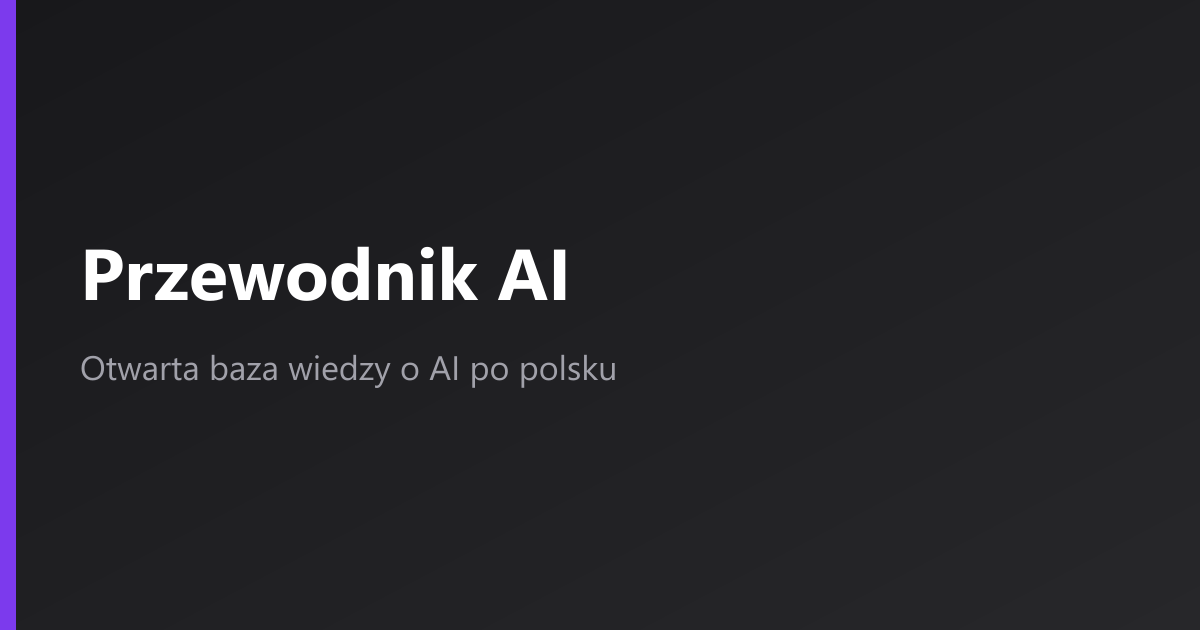
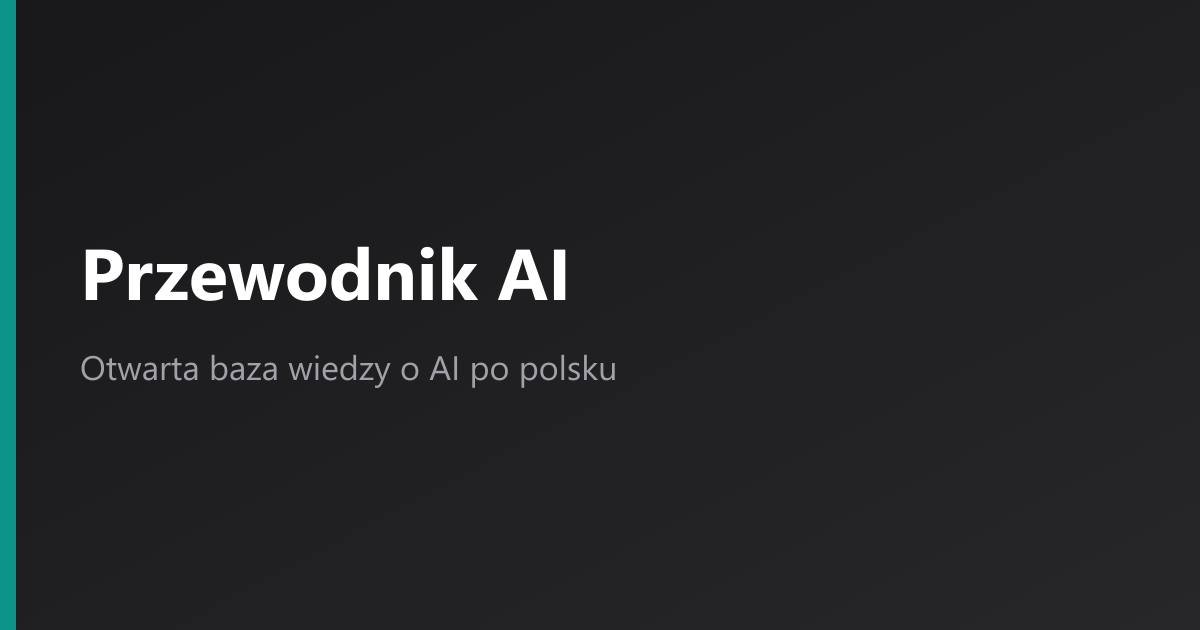
feat: przebudowa strony glownej - tozsamosc wizualna, program kursu, naprawa CTA (#9)
* fix(tresc): kieruj "Zacznij nauke" na pierwszy artykul kursu

Przycisk prowadzil do /podstawy/czym-jest-ai/ (sidebar.order: 2), czyli
do drugiego ogniwa lancucha "Nastepny krok". Pierwszy artykul sekcji to
/podstawy/wstep/ (sidebar.order: 1).

* feat(styl): wprowadz teal jako kolor marki serwisu

Serwis uzywal domyslnej palety Starlight, mimo ze kolor marki byl juz
ustalony i widoczny na kartach OG. Nowy src/styles/custom.css nadpisuje
skale akcentu na teal #0d9488, ujednolica kolor ikon kafelkow (Starlight
cyklowal je przez :nth-child przez cztery rozne barwy) i dodaje subtelna
poswiate pod hero.

Plik jest celowo bezwarstwowy - style Starlight siedza w @user
starlight.*, a customCss jest importowany surowo, wiec proste selektory
wygrywaja bez !important.

* fix(styl): wysrodkuj hero, gdy nie ma obrazka

Powyzej 50rem Starlight przestawia hero na `grid-template-columns: 7fr 4fr`
i wyrownuje tresc do lewej - kolumna 4fr jest przeznaczona na obrazek hero.
Nasze hero obrazka nie ma, wiec kolumna zostawala pusta, a tytul i CTA
lgnely do lewej krawedzi z duza wyrwa po prawej.

Warunek :has() cofa ten uklad tylko dla hero bez obrazka - gdy kiedys
dojdzie `hero.image`, oryginalny uklad dwukolumnowy wroci sam.

Przy okazji rezygnacja z centrowania naglowkow h2: nie dzialalo (h2 siedzi
w sl-heading-wrapper, wiec text-align na nim nic nie dawal), a wysrodkowany
naglowek nad wyrownanym do lewej akapitem i tak czytalby sie gorzej.
[…]

Changed region(s): [[0.0, 0.0, 0.0308, 1.0]]

diff --git a/src/styles/custom.css b/src/styles/custom.css
@@ -1,0 +1,105 @@
+/*
+ * Kolor marki: teal #0d9488.
+ *
+ * Ten plik jest CELOWO bezwarstwowy. Starlight trzyma wszystkie swoje style
+ * w @layer starlight.* (patrz node_modules/@astrojs/starlight/style/layers.css),
+ * a pliki z `customCss` sa importowane surowo, bez warstwy (patrz
+ * integrations/vite-virtual-modules.ts). Bezwarstwowy CSS wygrywa z warstwowym
+ * niezaleznie od specyficznosci - dlatego proste selektory ponizej nadpisuja
+ * Starlight bez !important. Nie owijaj tego pliku w @layer.
+ */
+
+/* --- Skala akcentu: motyw ciemny (domyslny) --- */
+:root {
+	--sl-color-accent-low: #042f2e;
+	--sl-color-accent: #0d9488;
+	--sl-color-accent-high: #5eead4;
+}
+
+/*
+ * Motyw jasny odwraca skale: -high jest najciemniejszy, bo sluzy za kolor
+ * tekstu na jasnym tle. Zachowujemy te konwencje Starlight.
+ */
+:root[data-theme='light'] {
+	--sl-color-accent-low: #ccfbf1;
+	--sl-color-accent: #0d9488;
+	--sl-color-accent-high: #115e59;
+}
+
+/* --- Hero: subtelna poswiata zamiast pustego tla --- */
+/* [data-has-hero] siedzi na <html> i jest ustawiane przez Starlight tylko
+   dla stron z hero, wiec reguly nie wyciekaja na artykuly. */
+[data-has-hero] .hero {
+	position: relative;
+}
+
+/*
+ * Hero bez obrazka: wysrodkuj zamiast zostawiac pusta kolumne.
+ *
+ * Powyzej 50rem Starlight przestawia hero na `grid-template-columns: 7fr 4fr`
+ * i wyrownuje tekst do lewej - kolumna 4fr jest tam przeznaczona na obrazek.
+ * Nasze hero obrazka nie ma, wiec ta kolumna zostawala pusta, a tresc
+ * niepotrzebnie lgnela do lewej krawedzi. Gdy kiedys dojdzie `hero.image`,
+ * warunek :has() przestanie pasowac i wroci oryginalny uklad dwukolumnowy.
+ */
+@media (min-width: 50rem) {
+	.hero:not(:has(> img, > .hero-html)) {
+		grid-template-columns: 100%;
+		/* Domyslne 10vmin robi wyrwe miedzy CTA a trescia ponizej. */
+		padding-block: clamp(2rem, calc(1rem + 6vmin), 6rem);
+	}
+
+	.hero:not(:has(> img, > .hero-html)) .stack {
+		text-align: center;
+	}
+
+	.hero:not(:has(> img, > .hero-html)) .copy {
+		align-items: center;
+	}
+}
+
+[data-has-hero] .hero::before {
+	content: '';
+	position: absolute;
+	/* Bez ujemnych wartosci poziomych - te powodowalyby poziomy suwak. */
+	inset: -8rem 0 -2rem;
+	z-index: -1;
+	background: radial-gradient(60% 70% at 50% 45%, var(--sl-color-accent-low), transparent 70%);
+	opacity: 0.6;
+	pointer-events: none;
+}
+
+/* --- Kafelki: jeden kolor zamiast teczy --- */
+/* Starlight koloruje ikony kart cyklicznie przez :nth-child(4n+1/3/4/5)
+   - pomaranczowy, fioletowy, zielony, czerwony. Na stronie glownej wyglada
+   to przypadkowo. Ujednolicamy do akcentu. */
+.card {
+	--sl-card-border: var(--sl-color-accent);
+	--sl-card-bg: var(--sl-color-accent-low);
+}
+
+/* --- LinkCard: akcent na hoverze zamiast szarosci --- */
+.sl-link-card {
+	transition: border-color 0.15s ease;
+}
+
+.sl-link-card:hover {
+	border-color: var(--sl-color-accent);
+}
+
+/* --- Pasek liczb pod hero (uzywany przez src/content/docs/index.mdx) --- */
+.stats {
+	margin-top: 0;
+	text-align: center;
+	font-size: var(--sl-text-sm);
+	letter-spacing: 0.08em;
+	text-transform: uppercase;
+	color: var(--sl-color-gray-3);
+}
+
+/* --- Rytm pionowy na stronach splash --- */
+/* Bez centrowania: naglowki zostaja przy lewej, zgodnie z akapitami pod nimi.
+   Wysrodkowany jest tylko blok hero z paskiem liczb. */
+[data-has-hero] .sl-markdown-content :is(h2, .sl-heading-wrapper) {
+	margin-top: 3rem;
+}

diff --git a/src/pages/og/[...route].ts b/src/pages/og/[...route].ts
@@ -24,15 +24,16 @@ export const { getStaticPaths, GET } = await OGImageRoute({
 		title: page.title,
 		description: page.description ?? 'Otwarta baza wiedzy o AI po polsku',
 		// CanvasKit dekoduje tylko formaty rastrowe (PNG/JPEG/WebP), nie SVG -
-		// favicon.svg jest wcześniej zrasteryzowany do public/og-logo.png (144x144,
-		// wymuszony biały kolor - oryginalny favicon jest czarny w trybie jasnym,
-		// co ginęłoby na ciemnym tle karty OG).
+		// favicon.svg jest wcześniej zrasteryzowany do public/og-logo.png (144x144).
+		// Znak jest dwukolorowy (teal + biel) i czyta się wprost na ciemnym tle
+		// karty, więc nie wymaga już wymuszania koloru, jak poprzedni monochromatyczny
+		// favicon. Po każdej zmianie favicon.svg trzeba zregenerować og-logo.png.
 		logo: { path: './public/og-logo.png', size: [72, 72] },
 		bgGradient: [
 			[24, 24, 27],
 			[39, 39, 42],
 		],
-		border: { color: [124, 58, 237], width: 16, side: 'inline-start' },
+		border: { color: [13, 148, 136], width: 16, side: 'inline-start' },
 		padding: 70,
 		// Domyślny font Noto Sans w astro-og-canvas ładuje wyłącznie podzbiór
 		// "latin" (bez ą, ę, ł, ż) - polskie znaki renderowały się jako puste